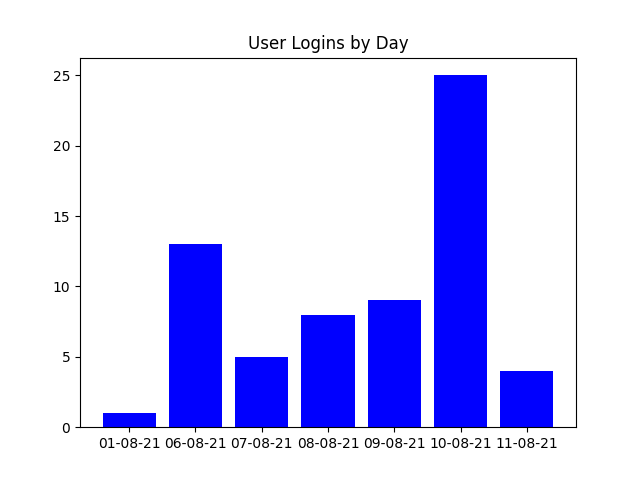
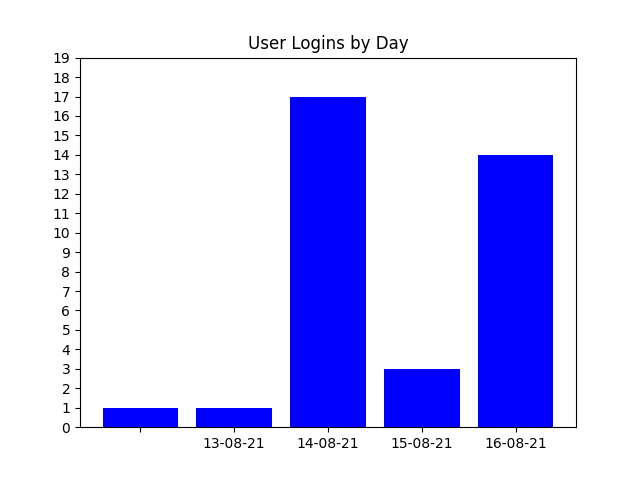
Fix defect make plot y scale fit data

diff --git a/templates/userAccount.html b/templates/userAccount.html
@@ -64,8 +64,8 @@
                         </div>
                     </div>
                     <div class="card-action">
-                        <button class="btn-large light-blue darken-4 lg-btn-add" name="action" type="submit">Submit
-                            <i class="fas fa-cloud-upload-alt"></i>
+                        <button class="btn-large light-blue darken-4 lg-btn-add" name="action" type="submit">
+                            <i class="fas fa-cloud-upload-alt"></i> Submit
                         </button>
                     </div>
                 </form>

diff --git a/app.py b/app.py
@@ -2,7 +2,7 @@ import os
 # import re
 import math
 import matplotlib.pyplot as plt
-# import numpy as np
+import numpy as np
 # import pymongo
 
 from flask import (
@@ -46,26 +46,34 @@ def login():
 
                 # Check if users account has been approved
                 if existing_user["approved"] == "approved":
-                    # session cookie for role "admin" or "user"
-                    session["role"] = existing_user["role"]
-                    # session cookie for users first name
-                    session["user"] = existing_user["first"]
-                    # session cookie for in_use ensures that menue only
-                    # display navigation bar to registered users
-                    session["in_use"] = True
-                    # session cookie for user email
-                    session["email"] = existing_user["email"]
 
-                    # Add an entry to the user login history
-                    login_entry = {
-                        "first": existing_user["first"].lower(),
-                        "last": existing_user["last"].lower(),
-                        "email": request.form.get("email").lower(),
-                        "login_date": datetime.today().strftime('%d-%m-%y'),
-                        "logout_date": ""
-                    }
-                    mongo.db.login_history.insert_one(login_entry)
-                    return redirect(url_for("userAccount"))
+                    # Check if user already logged in
+                    if session.get("user"):
+                        flash("User already logged in, please log out")
+                        return render_template("login.html")
+
+                    else:
+                        # Set up session variable for role "admin" or "user"
+                        # Set up session variable for user first name and email
+                        session["role"] = existing_user["role"]
+                        session["user"] = existing_user["first"]
+                        session["email"] = existing_user["email"]
+
+                        # Set up session variable for in_use ensures that
+                        # menu only display navigation bar to registered users
+                        session["in_use"] = True
+
+                        # Add an entry to the user login history
+                        login_entry = {
+                            "first": existing_user["first"].lower(),
+                            "last": existing_user["last"].lower(),
+                            "email": request.form.get("email").lower(),
+                            "login_date": datetime.today().strftime(
+                                '%d-%m-%y'),
+                            "logout_date": ""
+                        }
+                        mongo.db.login_history.insert_one(login_entry)
+                        return redirect(url_for("userAccount"))
                 else:
                     flash("Account not approved or suspended")
                     return redirect(url_for("login"))
@@ -73,9 +81,9 @@ def login():
                 flash("Incorrect password")
                 return redirect(url_for("login"))
         else:
-            # invalid user name
             flash("Incorrect username please register")
             return redirect(url_for("login"))
+
     return render_template("login.html")
 
 
@@ -85,13 +93,13 @@ def logout():
     # Called when a user or admin logs out of a session
     #
 
-    # Check that session is in progress before adding to the login
-    # history. Stops crashing during testing.
-    if session.get("user"):
-        # Add date to the user login history
-        user_history = {"logout_date": datetime.today().strftime('%d-%m-%y')}
-        mongo.db.login_history.find_one_and_update(
-            {"first": session["email"]}, {'$set': user_history})
+    if not session.get("user"):
+        return render_template("404error.html")
+
+    # Add logout date to the user login history
+    user_history = {"logout_date": datetime.today().strftime('%d-%m-%y')}
+    mongo.db.login_history.find_one_and_update(
+        {"first": session["email"]}, {'$set': user_history})
 
     # Code line from Code Institute Mini Project
     flash("Goodbye {} you have been logged out".format(
@@ -165,6 +173,14 @@ def usage_report():
     # users to view.
     #
 
+    # Detect 404 page error
+    if not session.get("user"):
+        return render_template("404error.html")
+
+    # Check if user has access to this page
+    if (session["role"] == "user"):
+        return render_template("errorPage.html")
+
     # Determine sources of isotopes on inventory
     source_types = mongo.db.sources.find().distinct("isotope")
     source_num = []
@@ -187,21 +203,23 @@ def usage_report():
         loans_num.append(mongo.db.source_history.count_documents(
             {"serial_number": loans}))
 
-    # Page only accessible for admin users
-    if session["role"] == "admin":
         try:
             # generate plots
             plt.bar(source_types, source_num, color='green')
+            plt.yticks(np.arange(0, 5, 1))
             plt.title("Sources by Isotope")
             plt.savefig('static/assets/sourceUsed.png')
             plt.close()
 
             plt.bar(logins, login_num, color='blue')
             plt.title("User Logins by Day")
+            plt.yticks(np.arange(0, 20, 1))
             plt.savefig('static/assets/loginHistory.png')
             plt.close()
 
             plt.bar(source_loans, loans_num, color='red')
+            plt.yticks(np.arange(0, 10, 1))
+            plt.xticks(rotation='vertical')
             plt.title("Source Loans by Serial Number")
             plt.savefig('static/assets/loanHistory.png')
             plt.close()
@@ -232,9 +250,6 @@ def usage_report():
             url2="static/assets/loginHistory.png",
             url3="static/assets/loanHistory.png",
             source_histories=source_histories)
-
-    else:
-        return render_template("errorPage.html")
 
 # -------------------------Source Request Management--------
 
